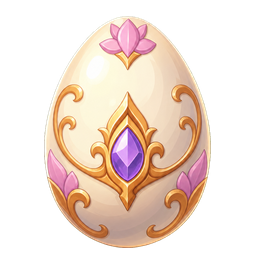
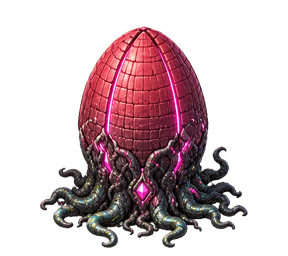
Redesign tamagotchi egg stages

diff --git a/web/static/app.js b/web/static/app.js
@@ -107,6 +107,10 @@ const DAILY_STAGECOACH_SCENE_POINT = { x: 326, y: 476 };
 const DAILY_STAGECOACH_ASSET = "/static/assets/daily/stagecoach.png";
 const DAILY_STAGECOACH_GLOW_ASSET = "/static/assets/daily/stagecoach_glow.png";
 const TAMAGOTCHI_ASSETS_BASE = "/static/assets/tamagotchi";
+const TAMAGOTCHI_EGG_STAGE_ASSETS = Array.from(
+    { length: 5 },
+    (_, index) => `${TAMAGOTCHI_ASSETS_BASE}/egg_stage_${index + 1}.png`,
+);
 const TAMAGOTCHI_EGG_SCENE_POINT = { x: 471, y: 785 };
 const TAMAGOTCHI_RABBIT_START_POINT = {
     x: TAMAGOTCHI_EGG_SCENE_POINT.x + 36,
@@ -720,7 +724,15 @@ function resetTamagotchiPet() {
 
 function tamagotchiEggAsset(stage) {
     const safeStage = Math.max(1, Math.min(5, Math.trunc(Number(stage) || 1)));
-    return `${TAMAGOTCHI_ASSETS_BASE}/egg_stage_${safeStage}.png`;
+    return TAMAGOTCHI_EGG_STAGE_ASSETS[safeStage - 1];
+}
+
+function preloadTamagotchiEggAssets() {
+    TAMAGOTCHI_EGG_STAGE_ASSETS.forEach((src) => {
+        const image = new Image();
+        image.decoding = "async";
+        image.src = src;
+    });
 }
 
 function clampRabbitPoint(point) {
@@ -858,15 +870,18 @@ function renderTamagotchiEgg(layerNode, scale, pet) {
     node.disabled = tamagotchiClickInFlight;
     node.setAttribute("aria-label", "Питомец");
 
-    const image = document.createElement("img");
-    image.className = "scene-pet-image";
-    image.src = tamagotchiEggAsset(pet.egg_stage);
-    image.alt = "";
-    image.decoding = "async";
-    image.loading = "lazy";
-    image.setAttribute("aria-hidden", "true");
-
-    node.appendChild(image);
+    const activeStage = Math.max(1, Math.min(5, Math.trunc(Number(pet.egg_stage) || 1)));
+    TAMAGOTCHI_EGG_STAGE_ASSETS.forEach((src, index) => {
+        const stage = index + 1;
+        const image = document.createElement("img");
+        image.className = `scene-pet-image scene-pet-egg-stage${stage === activeStage ? " is-active" : ""}`;
+        image.src = src;
+        image.alt = "";
+        image.decoding = "async";
+        image.loading = "eager";
+        image.setAttribute("aria-hidden", "true");
+        node.appendChild(image);
+    });
     node.addEventListener("click", () => {
         void clickTamagotchiEgg();
     });
@@ -5895,5 +5910,6 @@ setSettingsMenuOpen(false);
 setGroupEventState(createDefaultGroupEventState(), { silent: true });
 setGroupModalOpen(false);
 updateHeaderHeightVar();
+preloadTamagotchiEggAssets();
 loadScene();
 refresh();

diff --git a/web/static/styles.css b/web/static/styles.css
@@ -177,6 +177,7 @@ body {
 }
 
 .scene-pet-egg {
+    position: absolute;
     width: 118px;
     height: 118px;
     padding: 0;
@@ -186,6 +187,7 @@ body {
     pointer-events: auto;
     filter: drop-shadow(0 8px 12px rgba(71, 28, 78, 0.28));
     transition: filter 0.16s ease;
+    overflow: visible;
 }
 
 .scene-pet-egg-shell {
@@ -209,10 +211,17 @@ body {
 }
 
 .scene-pet-egg .scene-pet-image {
+    position: absolute;
+    inset: 0;
     width: 118px;
     height: 118px;
     object-fit: contain;
+    opacity: 0;
     transition: transform 0.16s ease;
+}
+
+.scene-pet-egg .scene-pet-image.is-active {
+    opacity: 1;
 }
 
 .scene-pet-egg:not(:disabled):hover {
